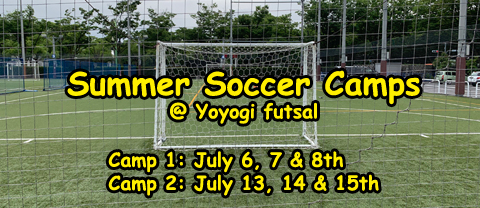
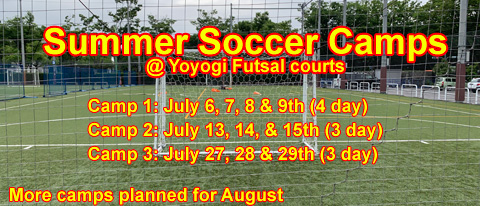
Camps update
camp 3

diff --git a/e/pages/camp.html b/e/pages/camp.html
@@ -82,12 +82,12 @@
 												<p><img src="../../images/photos/2017camp2.jpg" alt="pic" height="241" width="250" align="right" hspace="5"><b class="red">LOCKDOWN IS OVER &amp; THE KIDS NEED EXERCISE.</b><b class="navy"><br>
 													</b><b><br>
 														What better way to get the kids off your hands for some well earned rest for you &amp; much needed sports for the kids. <br>
-													</b>All 6-12 year olds are welcome to join our age-specific summer soccer camps at<b class="red"> </b><a class="content" href="https://www.jpnsport.go.jp/yoyogi/sisetu/tabid/222/Default.aspx" target="_blank">Yoyogi Futsal Courts</a><b class="red">.</b> Let our <b>English FA qualified, British coaches</b> enthral, entertain and educate your young ones with their wealth of knowledge and lively, energetic characters. We encourage participants to enrol for the full 3 action-packed-days of football games and fun, but do accept players on a per-day basis*. All children will be presented with an <b>official BFA  certificate of achievement.</b><b class="red"><br>
+													</b>All 6-12 year olds are welcome to join our age-specific summer soccer camps at<b class="red"> </b><a class="content" href="https://www.jpnsport.go.jp/yoyogi/sisetu/tabid/222/Default.aspx" target="_blank">Yoyogi Futsal Courts</a><b class="red">.</b> Let our <b>English FA qualified, British coaches</b> enthral, entertain and educate your young ones with their wealth of knowledge and lively, energetic characters. We encourage participants to enrol for the full 3 or 4 action-packed-days of football games and fun, but do accept players on a per-day basis*. All children will be presented with an <b>official BFA  certificate of achievement.</b><b class="red"><br>
 													</b><b>REGISTER <a class="content" href="campreg.html">ON-LINE HERE</a></b><br>
 													<span class="small">* Please note that we will prioritise campers who sign up for the full camp, and accept per-day basis campers where spaces are available. We will inform per-day basis campers of the availability 1 week before each camp starts.</span></p>
-												<p><b class="red">At present, we have 2 camps arranged in July but will be adding more in August as venues become available.</b></p>
+												<p><b class="red">At present, we have 3 camps arranged in July but will be adding more in August as venues become available.</b></p>
 												<p><b>Dates, Venues &amp; Prices per day:</b></p>
-												<p><b>CAMP 1:</b> July 6th (Mon) - 8th (Wed) - 3 day camp @ <a class="content" href="https://www.jpnsport.go.jp/yoyogi/sisetu/tabid/222/Default.aspx" target="_blank">Yoyogi Futsal Courts</a>.<br>
+												<p><b>CAMP 1:</b> July 6th (Mon) - 9th (Wed) - 4 day camp @ <a class="content" href="https://www.jpnsport.go.jp/yoyogi/sisetu/tabid/222/Default.aspx" target="_blank">Yoyogi Futsal Courts</a>.<br>
 												</p>
 												<ol>
 													<li><b>Ages 6 ~ 8</b>, Time: 9:10 am ~ 10:50 am (100 mins) BFA Members: ¥5,000 <i class="navy">Non BFA Members</i>: ¥6,000<br>
@@ -95,6 +95,12 @@
 													
 												</ol>
 												<p><b>CAMP 2:</b> July 6th (Mon) - 8th (Wed) - 3 day camp @ <a class="content" href="https://www.jpnsport.go.jp/yoyogi/sisetu/tabid/222/Default.aspx" target="_blank">Yoyogi Futsal Courts</a><br>
+												</p>
+												<ol>
+													<li><b>Ages 6 ~ 8</b>, Time: 9:10 am ~ 10:50 am (100 mins) BFA Members: ¥5,000 <i class="navy">Non BFA Members</i>: ¥6,000<br>
+													<li><b>Ages 9 ~ 12</b>, Time: 11:00 am ~ 12:00 pm (1 hr) BFA Members: ¥3,000 <i class="navy">Non BFA Members</i>: ¥4,000<br>
+												</ol>
+												<p><b>CAMP 3:</b> July 27th (Mon) - 29th (Wed) - 3 day camp @ <a class="content" href="https://www.jpnsport.go.jp/yoyogi/sisetu/tabid/222/Default.aspx" target="_blank">Yoyogi Futsal Courts</a>.<br>
 												</p>
 												<ol>
 													<li><b>Ages 6 ~ 8</b>, Time: 9:10 am ~ 10:50 am (100 mins) BFA Members: ¥5,000 <i class="navy">Non BFA Members</i>: ¥6,000<br>
@@ -154,6 +160,9 @@
 															Note 1: We may need to cancel the camp if we don't get enough participants, in which case we will refund your fee. We will email you 1 week before the camp starting date to inform you whether we go ahead with the camp or not.<br>
 															Note 2: The sessions will go ahead in the light rain, but will be cancelled in case of lightning/storm/strong wind.<br>
 															Note 3: We will not be able to refund the session fees or offer make up sessions in case of bad weather cancellation and/or for your own circumstances.</span></p>
+												<p>
+													<iframe src="https://www.google.com/maps/embed?pb=!1m18!1m12!1m3!1d1620.6880936715058!2d139.6970804759195!3d35.667738095025086!2m3!1f0!2f0!3f0!3m2!1i1024!2i768!4f13.1!3m3!1m2!1s0x60188cae28002e85%3A0xa4ac94c5148ddc6d!2sYoyogi%20Park%20Futsal%20Court!5e0!3m2!1sen!2sjp!4v1593398672746!5m2!1sen!2sjp" width="640" height="510" frameborder="0" style="border:0;" allowfullscreen="" aria-hidden="false" tabindex="0"></iframe>
+												</p>
 											</td>
 											<td><img src="../../images/mats/spacer.gif" alt="spacer" height="15" width="2" align="left"></td>
 										</tr>

diff --git a/e/index.html b/e/index.html
@@ -129,9 +129,9 @@
 										<td class="c7" valign="top">
 											<h2 class="red">BRITISH FOOTBALL ACADEMY LATEST NEWS</h2>
 											<p><b class="blue">SUMMER SOCCER CAMPS</b></p>
-											<p>In the wake of the COVID-19 lockdown, we are busy scrambling to find venues to hold our popular BFA Summer camps this year. Parents are itching to get kids out into the fresh air for some much needed exercise and give some relief to themselves. With many schools now having different schedules &amp; most of our international members staying in Japan this summer, we plan to run a few camps in July &amp; August to accomodate them, the first 2 being in July at Yoyogi Futsal courts. <a class="content" href="pages/camp.html">For more camp information CLICK HERE</a>.<br>
+											<p>In the wake of the COVID-19 lockdown, we are busy scrambling to find venues to hold our popular BFA Summer camps this year. Parents are itching to get kids out into the fresh air for some much needed exercise and give some relief to themselves. With many schools now having different schedules &amp; most of our international members staying in Japan this summer, we plan to run a few camps in July &amp; August to accomodate them, the first 3 being in July at Yoyogi Futsal courts. <a class="content" href="pages/camp.html">For more camp information CLICK HERE</a>.<br>
 												<br>
-												<a href="pages/camp.html"><img src="../images/photos/2020camp-yoyogi.jpg" alt="" height="208" width="480" border="0"></a></p>
+												<a href="pages/camp.html"><img src="../images/photos/2020camp-yoyogi.jpg" alt="" height="206" width="480" border="0"></a></p>
 											<hr align="left">
 											<p><b class="navy">NEW VENUE IN YOKOHAMA - PEVERLEY PLACE</b></p>
 											<p><img src="../images/photos/Peverly.jpg" alt="" height="320" width="480" border="0"><br>

diff --git a/j/indexj.html b/j/indexj.html
@@ -127,12 +127,12 @@
 													<p>BFAでは、７月及び8月にサマーキャンプの開催を予定しております。会場が決まり次第、順次お知らせをしていきますので、どうぞお見逃しなく！</p>
 													<p>７月は代々木フットサルコートにて、３デイキャンプを現在は２回予定しております。 <a class="content" href="../e/pages/camp.html">詳しくはこちらをご覧下さい。</a>.<br>
 														<br>
-														<a href="../e/pages/camp.html"><img src="../images/photos/2020camp-yoyogi.jpg" alt="" height="208" width="480" border="0"></a></p>
+														<a href="../e/pages/camp.html"><img src="../images/photos/2020camp-yoyogi.jpg" alt="" height="206" width="480" border="0"></a></p>
 													<hr align="left">
 													<p><b class="navy">横浜（元町）新規開校</b><b class="navy">- PEVERLEY PLACE</b></p>
 													<p><img src="../images/photos/Peverly.jpg" alt="" height="320" width="480" border="0"><br>
 														6月23日より、横浜（元町）にてサンモールインターナショナルスクールPeverley Placeで、BFAクラスを開講致します。定員が限られておりますので、お早めにお申し込みください。<br>
-														<a class="content" href="../e/pages/venueyokohama.html">詳しくはこちらをご覧下さい。</a><br>
+														<a class="content" href="pages/venueyokohama.html">詳しくはこちらをご覧下さい。</a><br>
 													</p>
 													<hr align="left">
 													<p>BFA メンバー各位,<br>
